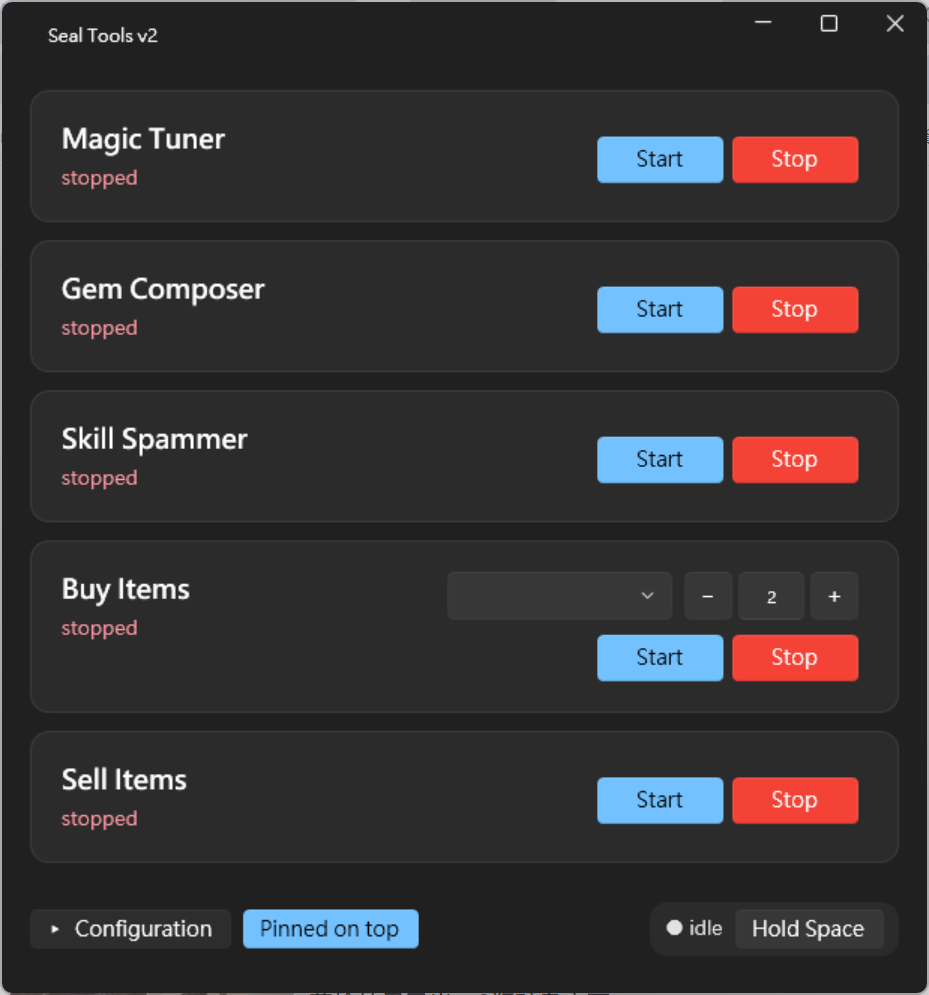
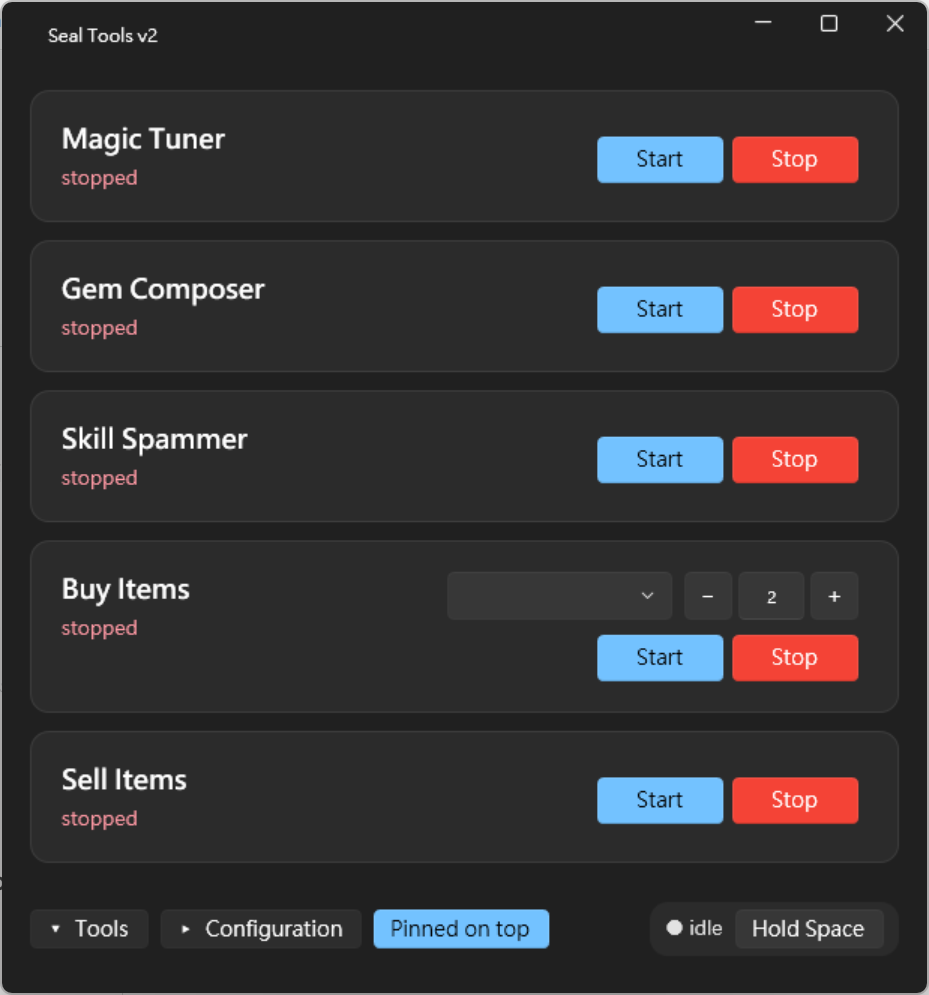
feat(v2): ▸ Tools hides the cards so a small screen can calibrate
From the second PC: maximizing the launcher to drag a capture canvas left the
five tool cards eating height the canvas needed. The cards are ~500 logical px
- a third of a maximized window - and the canvas is the one thing on that tab
that cannot be scrolled or shrunk.

The toggle sits left of Configuration because it controls the row above it.

The two toggles move together, one direction each, and that is the design:

  - hiding the cards OPENS Configuration. Hiding them is only meaningful when
    you are using the tabs, and it is also what keeps the window from ever
    being empty.
  - collapsing Configuration RESTORES the cards.

Either rule alone leaves a reachable state with nothing in the window.

Cards-hidden counts as "not mini". Mini mode shows one card and sizes the
window to it, so the two cannot both apply - without the guard, collapsing the
cards while a tool was running would shrink the window to the height of a card
that is no longer on screen.

Verified by measuring, not by eye: hidden, the tab strip moves from y=986 to
y=234 with the window height unchanged, so the tabs take all of it; and both
directions of the pairing were walked - hidden gives 1845px and 0 Start
buttons, collapsing Configuration gives 995px and all 5 back.

Not persisted, unlike placement and pinning. It exists for one task, and a
launcher that opened with its status cards missing would read as broken rather
than as a setting.
[…]

diff --git a/v2/SealTools.Launcher/MainWindow.xaml b/v2/SealTools.Launcher/MainWindow.xaml
@@ -26,7 +26,12 @@
                     <ColumnDefinition Width="Auto"/>
                 </Grid.ColumnDefinitions>
                 <StackPanel Grid.Column="0" Orientation="Horizontal" HorizontalAlignment="Left">
-                    <ui:Button x:Name="ConfigToggle" Appearance="Secondary" Padding="10,3,12,3"
+                    <!-- Sits above ConfigToggle because it controls the row above: the cards. Hiding them
+                         is for calibration on a small screen, where the five cards take height the capture
+                         canvas needs more. -->
+                    <ui:Button x:Name="ToolsToggle" Appearance="Secondary" Padding="10,3,12,3"
+                               ToolTip="Hide the tool cards to give the tabs below the whole window — for dragging a capture canvas on a small screen. Opens Configuration at the same time, and comes back when you collapse Configuration."/>
+                    <ui:Button x:Name="ConfigToggle" Appearance="Secondary" Padding="10,3,12,3" Margin="8,0,0,0"
                                ToolTip="Show or hide the configuration tabs"/>
                     <ui:Button x:Name="PinToggle" Appearance="Secondary" Padding="10,3,12,3" Margin="8,0,0,0"
                                ToolTip="Keep this window above the game so the tool status stays visible while you play"/>

diff --git a/v2/SealTools.Launcher/MainWindow.xaml.cs b/v2/SealTools.Launcher/MainWindow.xaml.cs
@@ -201,6 +201,7 @@ public partial class MainWindow : FluentWindow, IDisposable
                 MessageBox.Show(_service.LastArduinoError ?? "Arduino not found.", "Cannot start", MessageBoxButton.OK, MessageBoxImage.Warning);
         };
         ConfigToggle.Click += (_, _) => SetConfigExpanded(!_configExpanded);
+        ToolsToggle.Click += (_, _) => SetToolsCollapsed(!_toolsCollapsed);
         PinToggle.Click += (_, _) => SetPinned(!Topmost);
         SetConfigExpanded(false);
 
@@ -489,17 +490,36 @@ public partial class MainWindow : FluentWindow, IDisposable
     // a fresh launch expands to the window's designed height.
     private double _configExpandedHeight;
 
-    // Layout state. Both the config collapse and the mini mode want to set Height, so one function
-    // owns it — otherwise they fight, each undoing the other's resize.
+    // Layout state. The config collapse, the card collapse and the mini mode all want to set Height,
+    // so one function owns it — otherwise they fight, each undoing the other's resize.
     private bool _configExpanded;
+    /// <summary>Tool cards hidden so the tabs get the height. Deliberately NOT persisted: it exists
+    // for one task — dragging a capture canvas on a screen too small to show the cards and the canvas
+    // at once — and a launcher that opened with its status cards missing would read as broken.</summary>
+    private bool _toolsCollapsed;
     private string? _miniToolId;
     private bool _layoutApplied;
     private bool _appliedExpanded;
     private bool _appliedMini;
+    private bool _appliedToolsCollapsed;
 
     private void SetConfigExpanded(bool expanded)
     {
         _configExpanded = expanded;
+        // Collapsing the tabs brings the cards back. Otherwise the window could be left showing
+        // neither, which is not a state worth being able to reach — and this is the pair the two
+        // toggles are: hiding the cards opens the tabs, closing the tabs restores the cards.
+        if (!expanded) _toolsCollapsed = false;
+        ApplyWindowLayout();
+    }
+
+    /// <summary>Hides the tool cards, giving the tabs the whole window.</summary>
+    private void SetToolsCollapsed(bool collapsed)
+    {
+        _toolsCollapsed = collapsed;
+        // Only meaningful alongside the tabs — you hide the cards to use them. Opening Configuration
+        // here is also what keeps the window from ever being empty.
+        if (collapsed) _configExpanded = true;
         ApplyWindowLayout();
     }
 
@@ -570,8 +590,12 @@ public partial class MainWindow : FluentWindow, IDisposable
     /// the running tool's card is shown, and the height that follows from those.</summary>
     private void ApplyWindowLayout()
     {
-        bool mini = _miniToolId != null;
-        if (_layoutApplied && mini == _appliedMini && _configExpanded == _appliedExpanded) return;
+        // Cards-hidden counts as "not mini": mini mode shows ONE card and sizes the window to it, so
+        // the two cannot both apply — collapsing the cards would otherwise shrink the window to a
+        // height for a card that is not on screen.
+        bool mini = _miniToolId != null && !_toolsCollapsed;
+        if (_layoutApplied && mini == _appliedMini && _configExpanded == _appliedExpanded
+            && _toolsCollapsed == _appliedToolsCollapsed) return;
 
         // Remember the height the user was working with before anything shrinks it.
         if (_layoutApplied && _appliedExpanded && !_appliedMini && Height > _collapsedHeight)
@@ -579,6 +603,8 @@ public partial class MainWindow : FluentWindow, IDisposable
 
         ConfigTabs.Visibility = _configExpanded ? Visibility.Visible : Visibility.Collapsed;
         ConfigToggle.Content = (_configExpanded ? "▾  " : "▸  ") + "Configuration";
+        ToolsPanel.Visibility = _toolsCollapsed ? Visibility.Collapsed : Visibility.Visible;
+        ToolsToggle.Content = (_toolsCollapsed ? "▸  " : "▾  ") + "Tools";
 
         foreach (var (id, card) in _toolCards)
             card.Visibility = !mini || id == _miniToolId ? Visibility.Visible : Visibility.Collapsed;
@@ -595,6 +621,7 @@ public partial class MainWindow : FluentWindow, IDisposable
         _layoutApplied = true;
         _appliedExpanded = _configExpanded;
         _appliedMini = mini;
+        _appliedToolsCollapsed = _toolsCollapsed;
     }
 
     /// <summary>Height the window needs for the tool cards that are currently visible, plus the fixed

diff --git a/v2/docs/PROGRESS.md b/v2/docs/PROGRESS.md
@@ -9,6 +9,37 @@ the detail (`CURSOR-INVESTIGATION.md`, `MOVE-SETS.md`, …). Do not restate what
 
 ---
 
+## 2026-09-15 — the cards can be hidden, so a small screen can still calibrate
+
+**Reported from the second PC.** Its screen is small enough that maximizing the launcher to drag a
+capture canvas left the five tool cards eating height the canvas needed. The cards are ~500 logical px
+— on a maximized window that is a third of the space, and the canvas is the one thing on that tab
+that cannot be scrolled or shrunk.
+
+**`▸ Tools`** now hides them, sitting to the left of `Configuration` because it controls the row above
+it. Verified by measurement: hidden, the tab strip moves from y=986 to y=234, the window keeps its
+height, and the tabs take all of it.
+
+**The two toggles move together, each in one direction**, and that is the whole design:
+
+- hiding the cards **opens** Configuration — hiding them is only meaningful when you are using the
+  tabs, and this is also what keeps the window from ever being empty;
+- collapsing Configuration **restores** the cards.
+
+Either rule alone leaves a reachable state with nothing in the window. Confirmed both ways: hidden →
+1845 px tall with 0 `Start` buttons; collapse Configuration → 995 px with all 5 back.
+
+**Cards-hidden counts as "not mini".** Mini mode shows one card and sizes the window to it, so the two
+cannot both apply — without the guard, collapsing the cards while a tool ran would have shrunk the
+window to the height of a card that is no longer on screen.
+
+**Not persisted**, unlike the placement and pinning. It exists for one task, and a launcher that
+opened with its status cards missing would read as broken rather than as a setting.
+
+**Left open:** the layout sweep. Three defects in this area were found by the user *looking* at a
+narrow window (Save Preset above what it saves, a clipped Delete, the Fast tick box's missing right
+border), and none is reachable from the test project. This change is more of the same surface.
+
 ## 2026-09-14 (4) — v2.9 packaged, and the firmware had never shipped at all
 
 **The release.** `v2.9` is tagged on `main` (the branch fast-forwarded, 32 commits, 0 behind), with

diff --git a/v2/docs/USER_GUIDE.md b/v2/docs/USER_GUIDE.md
@@ -22,8 +22,14 @@ buttons](images/launcher-cards.png)
 
 Each card is one tool: its name, its live status, and **Start** / **Stop**. Buy Items is the only card
 taller than the rest — its item and count sit **above** Start/Stop, because they have to be set before
-the run rather than during it. Below the cards are **▸ Configuration** on the left, and **Hold Space**
-and the pin on the right.
+the run rather than during it. Below the cards are **▸ Tools** and **▸ Configuration** on the left,
+and **Hold Space** and the pin on the right.
+
+**Hide the cards with ▸ Tools** when you need the window for something else — it is for calibration
+on a small screen, where the five cards take height that the capture canvas needs more. It opens the
+configuration tabs at the same time, because hiding the cards only makes sense when you are using
+them, and collapsing Configuration again brings the cards back. The window is never left showing
+neither. *(That is the pair: hiding the cards opens the tabs, closing the tabs restores the cards.)*
 
 **▸ Configuration** expands every tab and grows the window to fit. Clicking it again collapses them
 and returns the window to the size it had before.
@@ -48,6 +54,7 @@ the order they are listed in this document. Widen the window and the wrapping ch
 
 | Control | What it does |
 |---|---|
+| **▸ / ▾ Tools** | Hides the tool cards so the tabs — and a capture canvas — get the whole window. Opens Configuration at the same time; collapsing Configuration brings the cards back. Not remembered between launches. |
 | **▸ / ▾ Configuration** | Shows or hides the config tabs. The window resizes to suit. |
 | **Pin on top** / **Pinned on top** | Floats the launcher above every other window, so the tool status stays readable while you play. The label and colour change with the state. |
 | **Hold Space** / **Stop Space** | Presses the spacebar and **leaves it held** — the auto-pickup toggle, so you are not holding the key yourself. Clicking again releases it. The dot beside it reads `● idle` or `● holding`. It is not a tool card, so it does not shrink the window. |
